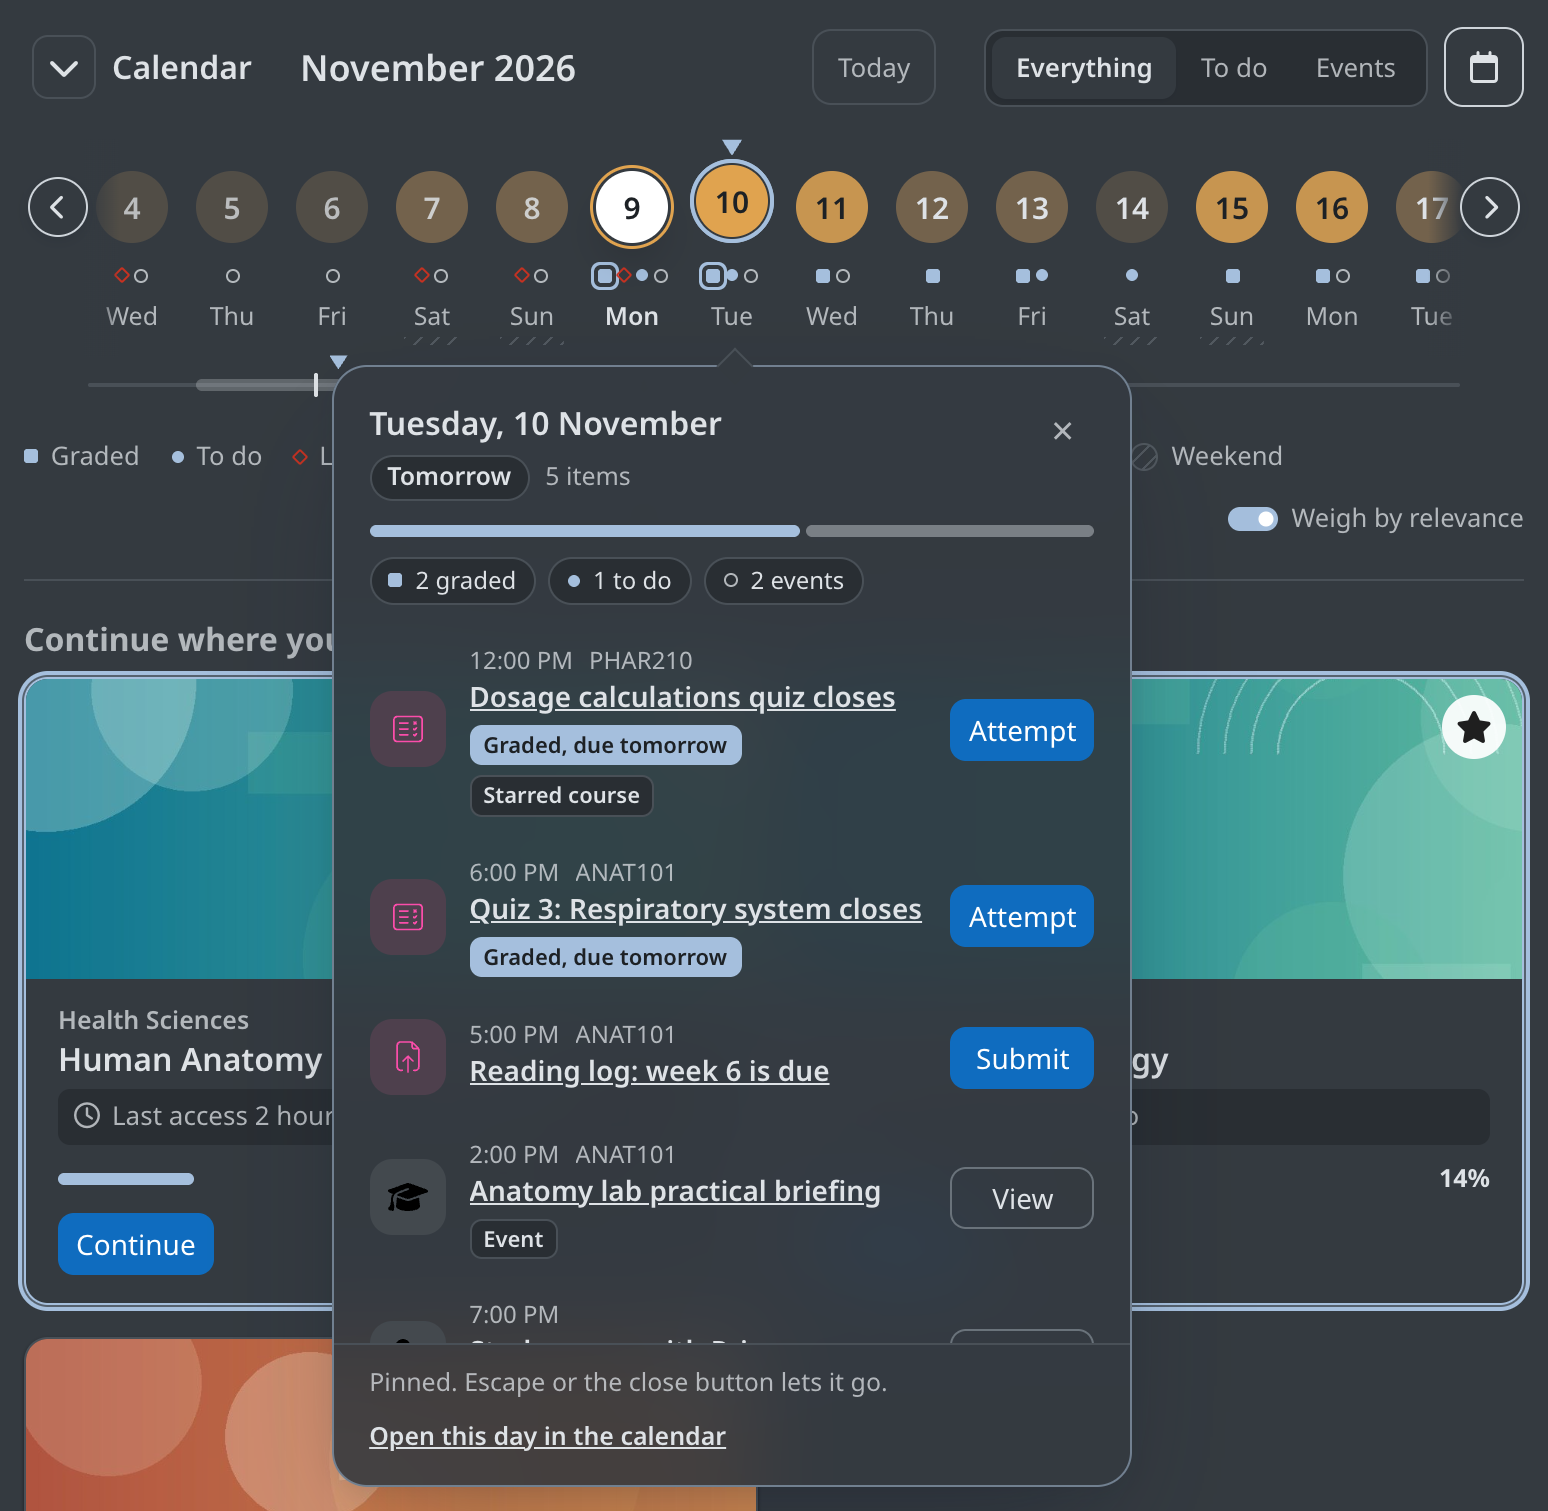
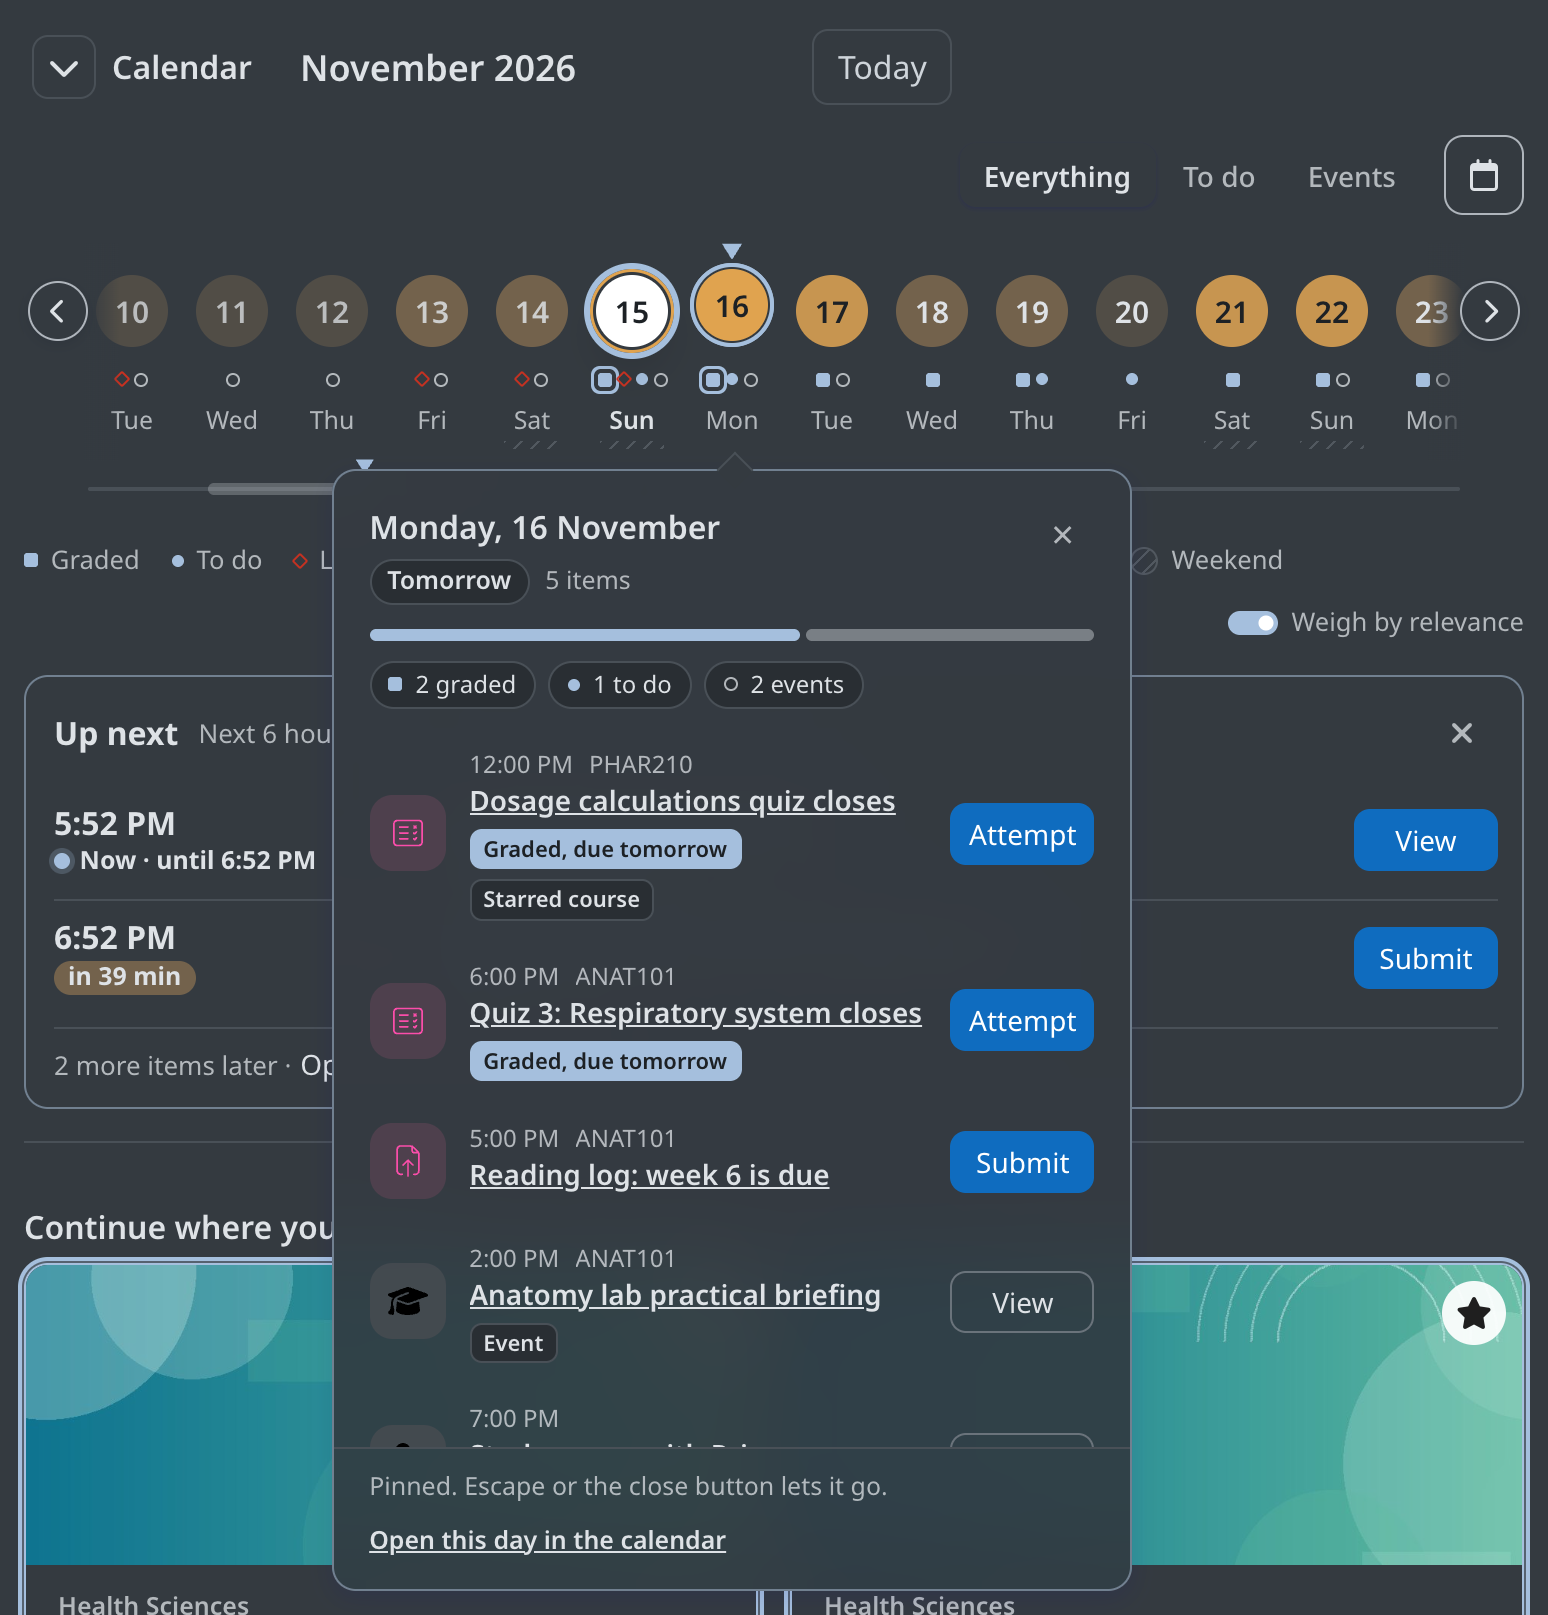
Docs: the README's screenshots show the bar as it is [skip ci]
All 24 pictures retaken on the demo site; capture.mjs follows the compact bar, the
Organise menu's two sections, the labelled filter groups and the search that opens in
place, and waits on state instead of the old selectors. Captions describe each picture
as taken. No code change.

diff --git a/README.md b/README.md
@@ -7,7 +7,7 @@ Compass (block_compass)
 My courses by relevance, in three tiers, with a calendar strip above them. Built for very
 large sites.
 
-![The Compass block on a Dashboard: strips of course cards and the ghost card counting the remaining courses](docs/screenshots/dashboard.png)
+![The Compass block on a Dashboard: the open calendar strip and Up next above strips of course cards, the open-for-enrolment line between them, and the ghost card counting the remaining courses and the one archived](docs/screenshots/dashboard.png)
 
 The standard Course overview block sorts courses by time: start and end dates. On sites where
 most courses have no end date and no completion rule, that turns into one long "in progress"
@@ -24,7 +24,7 @@ what I was doing, what just arrived, what I marked as mine, and what is due.
   the user a way to enrol now, and never one where the user already holds an enrolment of any
   status or a role.
 
-  ![The open-for-enrolment line: a title, how many courses start by a date, the categories as links with their counts and a button that hides the line](docs/screenshots/open-courses.png)
+  ![The open-for-enrolment line on a busy day, one sentence (8 courses start by 15 December) with See and a hide button, and the list See opens: the categories as links with their counts, a category of one naming its course, a link to every open course and Hide](docs/screenshots/open-courses.png)
 - **Tier 1, attention.** Full cards (image, progress, button) in four strips: *Continue where
   you left off*, *New enrolments*, *Starts soon* and *My favourites*. A strip that overflows
   says so in its heading ("+4 new").
@@ -51,7 +51,7 @@ the page does not jump when they load. Every web service has a query budget enfo
 The calendar strip
 ------------------
 
-![The open calendar strip: a scrolling row of days coloured by load with five past days, today marked, floating arrows over the row's ends, a map under it and one mark per kind of item below each day](docs/screenshots/calendar-strip.png)
+![The open calendar strip: a scrolling row of days coloured by load with five past days, today marked, floating arrows over the row's ends, a map under it, one mark per kind of item below each day, then the legend and the relevance switch](docs/screenshots/calendar-strip.png)
 
 The strip is off by default (`calendar_enabled`). When on, it sits above the first tier on the
 Dashboard, on the Compass page, or on both (`calendar_where`), and loads after the first tier so
@@ -104,7 +104,7 @@ the cards always paint first.
   events, and grading shows once it is open. The switch is two icons (Studying, Teaching) where
   the header is narrow.
 
-  ![The Teaching view of the strip, open: days carrying grading work, and a day card with the submissions waiting to be graded and the Grade button](docs/screenshots/calendar-teaching.png)
+  ![The Teaching view of the strip, open: the Studying and Teaching switch, days carrying grading work, and today's card pinned with six submissions waiting to be graded and the Grade button](docs/screenshots/calendar-teaching.png)
 
   ![The teaching line, closed, on a site without block_feedback_tracker: the icon switch, then Today, Tomorrow, This week and Later, and a note that grading work shows when the strip is open](docs/screenshots/calendar-line-teaching.png)
 
@@ -144,7 +144,7 @@ the cards always paint first.
 All courses and the Compass page
 --------------------------------
 
-![All courses on the Compass page: the filter line on one row (the scope with its counts, the result count, the star, Filters, Organise and the list/cards menu, and the search icon), the category index and the first group open as cards](docs/screenshots/explore.png)
+![All courses on the Compass page: the filter bar on one row (the scope with its counts, the result count, the star, Filters, Organise and the list/cards menu, and the search icon), the category index with the open group's link tinted and Archived last, and the first group open as a list](docs/screenshots/explore.png)
 
 *All courses* opens from the ghost card or from a strip's "+N" link. The ghost is there whenever
 *All courses* has something tier 1 does not show, its *Hidden* and *Archived* groups included: a
@@ -174,9 +174,9 @@ each with a cross to remove it, and *Clear all* from two chips up; a search left
 its field has closed shows as a chip too. The scope and the star stay on the bar and need no
 chip.
 
-![The Filters popover open under the line: the Modality field with Online, In-person and Hybrid and their counts, Clear filters and Show 14](docs/screenshots/explore-filters.png)
+![The Filters panel open under the bar with Hybrid chosen: each field's label above its values with their counts (Modality: Online, In-person, Hybrid; Level: Intermediate, Advanced), Clear filters and Show 4; Filters carries a badge of 1 and the Hybrid chip sits under the bar](docs/screenshots/explore-filters.png)
 
-![The Organise menu open under the line: Group by, with Category and No grouping, then Sort by, with Name and Most recent](docs/screenshots/explore-organise.png)
+![The Organise menu open under the bar: Group by, with Category and No grouping, then Sort by, with Name and Most recent, the chosen one of each ticked](docs/screenshots/explore-organise.png)
 
 The search suggests as you type, in one list under the line: first the **filters** (a scope,
 the star, a field's value) whose name or field matches the text, each with the number of courses
@@ -185,21 +185,21 @@ a filter applies it and empties the field for the next one; choosing a course op
 fewer than two characters typed, the list offers up to five filters, the largest first, under
 *Start with a filter*. The arrow keys walk the list, Enter chooses and Escape closes it.
 
-![The search grown over the Dashboard's line with "on" typed: under Filters, Online (9) and In-person (2) of the Modality field; under Courses, Nutrition and Metabolism, Introduction to Philosophy and Data Analysis with Python, the matched letters marked](docs/screenshots/explore-search.png)
+![The search opened in place at the bar's end with "on" typed, the scope's counts following it: under Filters, Online (12) and In-person (1) of the Modality field; under Courses, Facilitating Online Discussions, Creating Digital Content, Differentiated Instruction in Practice, Instructional Coaching Cycles and Instructional Leadership Foundations, the matched letters marked](docs/screenshots/explore-search.png)
 
 **The bar folds to the width of the block, not of the screen**, in two steps measured on the bar
 itself: everything on one row (the Compass page on a desktop); or, where that does not fit, the
-scope on a line of its own under the controls, its choices sharing the width (a tablet, a phone,
-the block drawer). There, while the search is open, its field takes the first line. The chips
+scope on a line of its own under the controls, its choices sharing the width (a phone, the block
+drawer, a narrow column). There, while the search is open, its field takes the first line. The chips
 wrap to further lines rather than scrolling.
 
-![All courses on the Dashboard, the line with one filter in force: only All with its count of one, the star, Filters with a badge of 1, Organise, View and the search icon; under it the chips health and Hybrid with Clear all, and the one course left](docs/screenshots/explore-filtered.png)
+![All courses on the Dashboard, a search and a filter in force: only All with its count of 3, the result count, the star, Filters with a badge of 1, Organise, View and the search icon; under it the chips instruction and Hybrid with Clear all, and the three courses left](docs/screenshots/explore-filtered.png)
 
-![All courses on the Dashboard at a tablet's width, the narrow step: the star, Filters, Organise, View and the search icon on the first line, the scope on a line of its own after them](docs/screenshots/explore-narrow.png)
+![All courses on the Dashboard at 500 px, the narrow step: the result count, the star, Filters, Organise, View and the search icon on the first line, the scope on a line of its own after them](docs/screenshots/explore-narrow.png)
 
 At the narrow step the Filters panel opens as a bottom sheet:
 
-![All courses on a phone with Filters pressed: the panel as a bottom sheet with the Modality values, Clear filters and Show 38](docs/screenshots/explore-phone.png)
+![All courses on a phone with Filters pressed: the panel as a bottom sheet with the Modality and Level values, Clear filters and Show 38](docs/screenshots/explore-phone.png)
 
 **Pointing at a filter previews it.** A mouse or a pen on a scope, the star, a panel value or a
 suggestion, or the keyboard's focus on one, rings the courses on screen that it would keep,
@@ -230,7 +230,7 @@ counted before a group's rows arrive. The server is asked for one scope at a tim
 while the star is pressed) and the browser narrows the rows it holds by the rest; the course
 suggestions are the server's search hits. Nothing is configured per learner.
 
-![The Compass page: the block's content alone under the theme's navigation bar](docs/screenshots/page.png)
+![The Compass page: the block's content alone, from the calendar strip and Up next through the strips of course cards to the ghost card](docs/screenshots/page.png)
 
 With `enable_page` on, `/blocks/compass/index.php` shows the block's content alone, on the
 theme's page without block regions. While it is on, "Compass" is offered under *Site
@@ -303,7 +303,7 @@ administration > Appearance > Default Dashboard page*.
 Settings
 --------
 
-![The Compass settings page, with the calendar strip section](docs/screenshots/settings.png)
+![The calendar strip section of the Compass settings page, from Show the calendar strip to Up next: how far ahead](docs/screenshots/settings.png)
 
 *Site administration > Plugins > Blocks > Compass* (each setting is stored as `block_compass/<name>`):
 

diff --git a/docs/screenshots/tools/README.md b/docs/screenshots/tools/README.md
@@ -47,27 +47,38 @@ docker exec m503-webserver-1 php $T/holidays.php --add      # only where block_f
 #   {"demo.student": "MoodleSession503=...", "demo.teacher": "...", "admin": "..."}
 COMPASS_SESSIONS=/path/sessions.json node capture.mjs        # every shot but ring and pulse
 # calendar_style=ring: node capture.mjs ring; calendar_style=pulse: node capture.mjs pulse (also calendar-pulse.png and calendar-pulse-card.png);
-# calendar_style back to dots
+# calendar_style back to dots. The setting, from the host:
+#   docker exec m503-webserver-1 php /var/www/html/admin/cli/cfg.php --component=block_compass --name=calendar_style --set=ring
 python3 finish.py
 ```
 
 Each shot puts the strip in the state it needs (open or closed) by pressing the heading's toggle,
 which writes the user's `block_compass_calendar` preference, and waits for that state's data: the
 open row's days, or the closed line's counts. Note each demo user's `open` value before a run and
-restore it afterwards. The shots are `dashboard`, `strip` (open, student), `card`, `teaching`
-(open, a day with submissions to grade pinned), `line` (closed, student), `news` (closed strip, student: `open-courses.png`, the open-for-enrolment line; the full line only on a calm day, else the compact sentence, and the shot prints which), `lineteaching` (closed,
+restore it afterwards, with the `block_compass_explore` and `block_compass_tier1` preferences the
+pages write as they settle (a user who had none gets one: delete it). Up next sits inside the strip's
+section and has its own shot (`soon`), so `strip`, `line`, `lineteaching`, `ring` and `pulse` stop
+above it when it shows. Every shot takes the pointer off the page and waits for no tooltip and no
+transition before it captures. The shots are `dashboard`, `strip` (open, student), `card`, `teaching`
+(open, a day with submissions to grade pinned), `line` (closed, student), `soon` (Up next under the closed line), `news` (closed strip, student: `open-courses.png`, the open-for-enrolment line; the full line only on a calm day, else the compact sentence with the list its See opens, and the shot prints which), `lineteaching` (closed,
 teacher; the *To grade* cell is there only with block_feedback_tracker, which m503 lacks, so the shot
 shows the line without it and prints a NOTE), `dim` (a tier 1 card hovered, the other days dimmed), `dark`, the tier 3 shots, `page`,
-`mobile` and `settings`, plus `ring` and `pulse`.
+`mobile` and `settings` (the calendar section, down to its last setting before the next heading),
+plus `ring` and `pulse`.
 
-The tier 3 shots open *All courses* from the ghost and leave the strip as it is: `explore` (the
-filter line at rest on the Compass page, one row), `filtered` (the Dashboard's folded line with a
-field value and a search in force: two chips and Clear all), `search` (the search grown over the
-Dashboard's line, its suggestions open), `filters` and `organise` (the panel and the menu on the
-Compass page), `preview` (the mouse on the New scope, the open group ringed and dimmed), `phone`
-(a phone, the panel as a bottom sheet) and `narrow` (the Dashboard at 768 px, the line on two
-lines). `filtered` releases what it pressed through *Clear filters* and every shot closes what it
-opened, so `block_compass_explore` ends as it started; check it after a run all the same.
+The tier 3 shots open *All courses* from the ghost, close the Filters panel when the user's
+remembered state has it open, and leave the strip as it is: `explore` (the bar at rest on the
+Compass page, on one row, the category index with the open group's link tinted and *Archived*
+last), `filtered` (the Dashboard, Hybrid chosen in the panel and a search left in force by Escape:
+two chips and Clear all), `search` (the search opened in place at the bar's end, its suggestions
+open), `filters` (the panel on the Compass page, each field's label above its values, Hybrid
+chosen so the chosen state shows), `organise` (the menu on the Compass page, its Group by and Sort
+by sections), `preview` (the mouse on the New scope, the open group ringed and dimmed), `phone` (a
+phone, the panel as a bottom sheet) and `narrow` (the Dashboard at 500 px, the narrow step: the
+scope on a line of its own after the controls; a tablet's 768 px still draws the bar full, and the
+shot fails if the bar is not at its narrow step). `filtered`, `search` and `filters` release what
+they pressed through *Clear filters* and every shot closes what it opened; the panel's remembered
+state still changes, so put `block_compass_explore` back after a run.
 
 Node 22 or later (global `WebSocket`), Google Chrome at its macOS path or `CHROME_BIN`. The card
 opens on tomorrow, the richest day of the seeded data. The texts that depend on the clock ("Last
